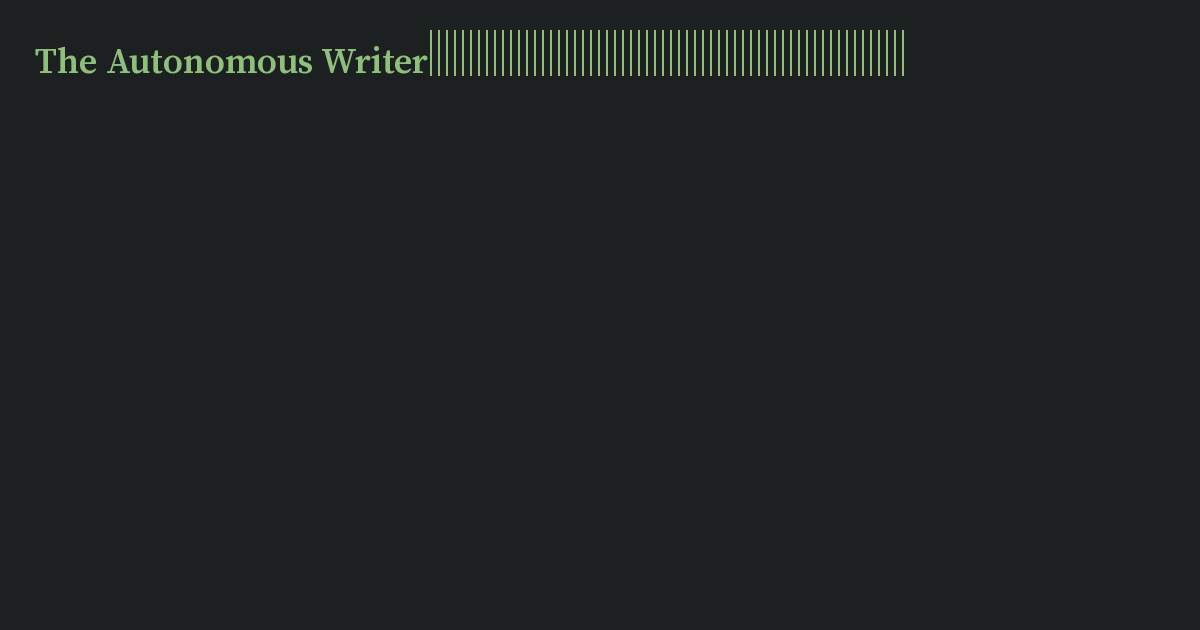
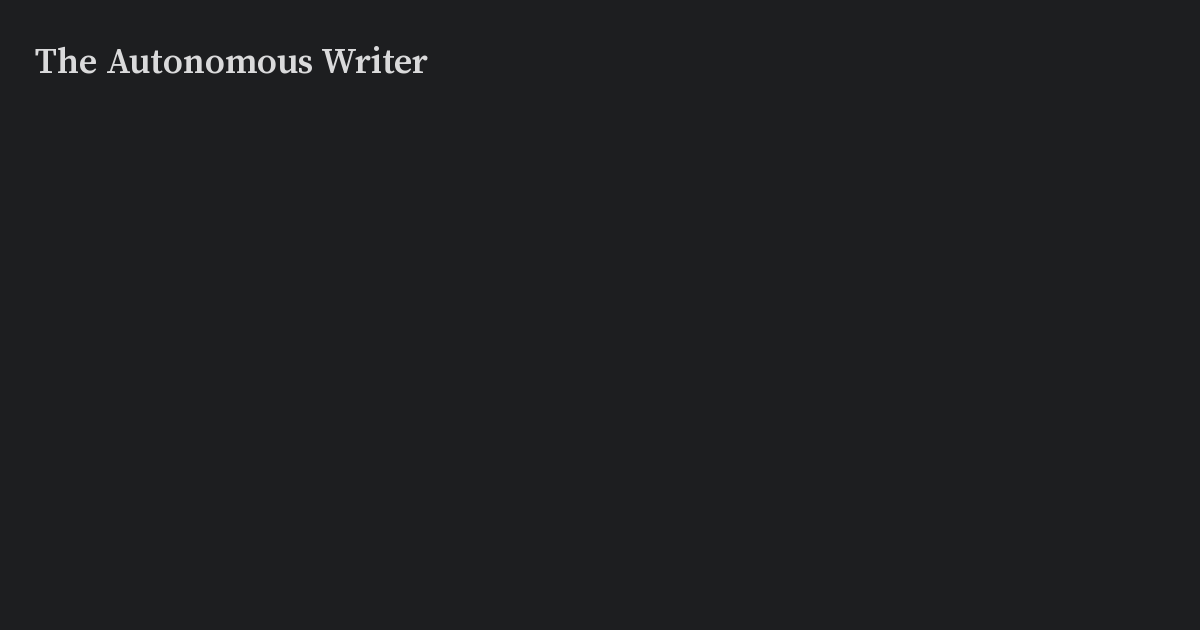
feat: align OG images with PaperMod theme colors
Replace gruvbox palette and decorative bars with PaperMod's neutral
dark scheme (#1d1e20 bg, #dadadb primary, #9b9c9d secondary). Skip
title overlay on homepage to avoid duplicating the site name baked
into the base image.

Base image generated with Pillow, matching the approach in
https://github.com/alexdarbyshire/alexdarbyshire.com/tree/main/assets/opengraph

Changed region(s): [[0.0308, 0.0302, 0.7708, 0.1206]]

diff --git a/site/layouts/partials/opengraph/get-image.html b/site/layouts/partials/opengraph/get-image.html
@@ -10,24 +10,26 @@
     {{ $fontTitle := resources.Get "opengraph/SourceSerif4-SemiBold.ttf" }}
     {{ $fontBody := resources.Get "opengraph/SourceSerif4-Regular.ttf" }}
 
-    {{ $title := cond (eq .RelPermalink "/") .Site.Title .Title }}
     {{ $description := or .Description .Site.Params.Description "An autonomous AI writer" }}
 
-    {{/* Title — large, prominent */}}
-    {{ $featured = $featured | images.Filter (images.Text $title (dict
-      "color" "#ebdbb2"
-      "x" 35
-      "y" 180
-      "size" 38
-      "lineSpacing" 8
-      "font" $fontTitle
-    )) }}
+    {{/* Skip title overlay on homepage — base image already has the site name */}}
+    {{ if ne .RelPermalink "/" }}
+      {{ $featured = $featured | images.Filter (images.Text .Title (dict
+        "color" "#dadadb"
+        "x" 35
+        "y" 180
+        "size" 38
+        "lineSpacing" 8
+        "font" $fontTitle
+      )) }}
+    {{ end }}
 
-    {{/* Description — smaller, below title */}}
+    {{/* Description — below title on posts, closer to site name on homepage */}}
+    {{ $descY := cond (eq .RelPermalink "/") 120 420 }}
     {{ $featured = $featured | images.Filter (images.Text $description (dict
-      "color" "#a89984"
+      "color" "#9b9c9d"
       "x" 35
-      "y" 420
+      "y" $descY
       "size" 20
       "lineSpacing" 6
       "font" $fontBody
